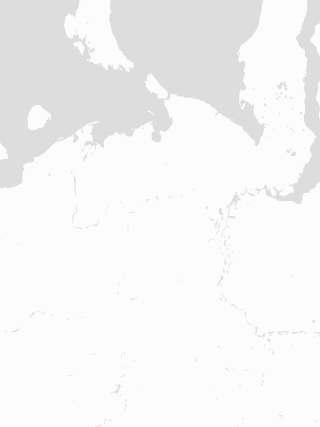
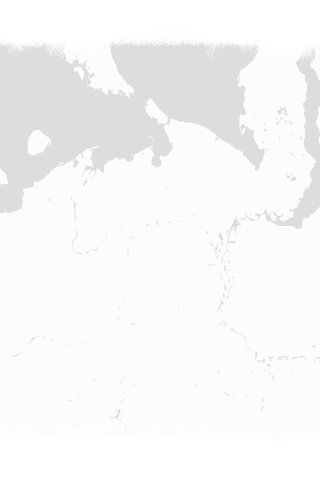
Add backgrounds for map block

diff --git a/app/sass/map.scss b/app/sass/map.scss
@@ -1,0 +1,35 @@
+@import "color-variables.scss";
+@import "mixins.scss";
+
+
+.map{
+    background-image: url(../images/MapMob.png);
+	background-repeat:no-repeat;
+    background-size: cover;
+    min-height: 489px;
+    text-align: center;
+    background-position-y:30px ;
+}
+.map-header{
+    @include header-main-color;
+  
+    &:after{
+
+        content:"мы здесь были";
+        
+       @include header-background;
+}
+}
+@media screen and (min-width: 750px) {
+    .map{
+        background-image: url(../images/MapTab.png);
+        min-height: 708px;
+    }
+}
+
+@media screen and (min-width: 1170px) {
+    .map{
+        background-image: url(../images/MapDesk.png);
+        min-height: 714px;
+    }
+}

diff --git a/app/sass/testimonials.scss b/app/sass/testimonials.scss
@@ -66,7 +66,7 @@
   .testimonials__item-wrapper{
     background-image: url(../images/VideoItemBgMob.jpg);
 background-repeat:no-repeat;
-min-height: 760px;
+min-height: 820px;
 background-size: 100% 100%; 
 
 }
